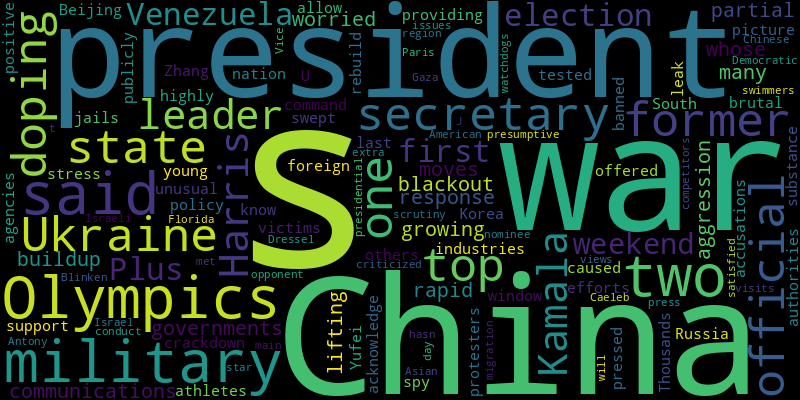
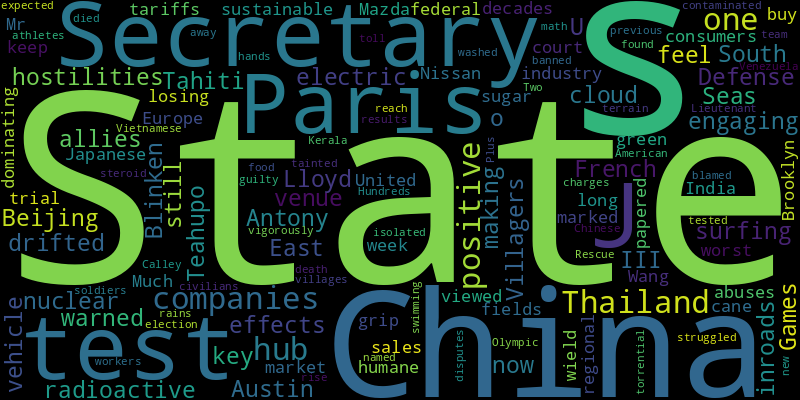
chore(bot): 😂 auto commit

diff --git a/README.md b/README.md
@@ -2,41 +2,41 @@
 Auto RSS New York Times and Generate Word Cloud
 
 ## New York Times Global News
-* Sunday’s vote could end a generation of control by Venezuela’s socialist party. It could also usher in a period of profound uncertainty.
-* Ukraine wants to deploy its first F-16 jets this summer, hoping to counter Russia’s dominance in the air. But stepped-up Russian bombing attacks on air bases complicate the effort.
-* Diplomats were scrambling to prevent a surge in fighting, officials said, after Israel retaliated for the rocket fire that killed at least 12 children and teenagers in an Israeli-controlled town.
-* The talks in Rome remain stuck over several key issues, including the extent to which Israeli troops should withdraw from Gaza, where tens of thousands were forced under Israeli orders to evacuate Sunday.
-* Grudges from the World Cup and rugby union have spilled over to the Games. But is this new sports feud even real?
-* With the closure of checkpoints, Israeli Arabs cannot come to Jenin and Tulkarm to shop, and West Bank Palestinians cannot leave to work in Israel, cutting incomes and building militancy.
-* The two governments said the moves were a response to growing aggression by China, whose rapid military buildup has many leaders worried.
-* Three years after she dropped out of the Tokyo Games with a mental block, she is back at the Olympics with a defiant attitude — and a sense of where she is in the air.
-* The partial lifting of a communications blackout is providing a picture of the young victims of a brutal crackdown on protesters. Thousands of others have been swept into jails.
-* Military analysts say Russian forces are increasingly investigating Ukrainian lines to identify weakened positions before attacking and breaking through.
+* Much of what consumers buy is marked “sustainable,” “humane” or “green.” In the sugar cane fields of India, that papered over the worst abuses.
+* In 1974, a radioactive cloud from a French nuclear test drifted over Teahupo’o, Tahiti, now the surfing venue for the Paris Games. Villagers still feel the effects.
+* A movement started by Hugo Chávez, promising power to the people, became an authoritarian regime, one that opponents say just stole an election.
+* Rescue workers struggled to reach isolated villages in the state of Kerala, where torrential rains washed away terrain. The death toll was expected to rise.
+* Water-quality tests early Tuesday showed that the river running through Paris was unsafe for swimming, organizers said.
+* The United States and Iran are at odds over the Gaza war as well as proposals for an American troop withdrawal from Iraq.
+* “It was like a fight between two packs of dogs,” said an officer, describing the struggle for one of the areas, Urozhaine. But “there came a moment when it made no sense to keep people there.”
+* A 17-year-old was arrested after an assault that left two children dead and nine children and two adults injured. The police said it did not appear terrorism-related.
+* Sunisa Lee, the all-around women’s champion at the Tokyo Olympics, overcame personal strife, family expectations and serious illness to get to Paris.
+* The African National Congress party severed ties with its former leader over his decision to become the leading voice of an opposition party in the last election, calling its platform “dangerous.”
 
 ![Global](./global.png)
 ## New York Times United States News
-* A growing cohort of young farmers is experimenting with ways to mitigate the impact of flooding and other extreme weather.
-* The fire, the largest active blaze in the United States, was 12 percent contained on Sunday afternoon. Fire activity was on the rise, according to officials.
-* With Patriot Party News, Michael Chesebro found a sense of community, and a place where conspiracy theories could become real in the form of the “medbed.”
-* Jorge Armando Contreras used his position at a school district in Orange County to fund a luxurious lifestyle, prosecutors said.
-* In his first public engagement since ending his campaign, President Biden will propose overhauling a court that has become increasingly politicized and subject to ethics complaints.
-* Democrats could formally make Kamala Harris their nominee this week, as she narrows her running mate choices and attacks her rivals, Donald Trump and JD Vance, while they hit the trail.
-* Many who fled the fire in California have been anxiously waiting to hear whether their houses are still standing. Others are grappling with news of homes and barns leveled by flames.
-* Critics say the immunity ruling is flawed for reasons similar to those the court gave for overturning Roe, which had established a right to abortion.
-* The Iowa Supreme Court ruled last month that the Republican-backed law could be enforced. Abortions had been legal in the state up until about 22 weeks.
+* “These guys are just weird,” Gov. Tim Walz, a former schoolteacher, has said of the opposition.
+* After months of roaring around the city in a souped-up Dodge Charger, drawing furious complaints and unpaid fines, Miles Hudson was led out of court on Monday in handcuffs.
+* In two years, Texas has bused more than 119,000 people to Democrat-led cities, shifting both migration patterns and the debate over immigration. The list of cities keeps expanding.
 * Native American tribes say the casinos are part of their right to self-determination. But state officials fear they could siphon revenues from the Oregon Lottery.
+* The vice president released an ad called “Fearless” that focuses on her time as a prosecutor, while a spot from the former president attacked her as soft on immigration.
+* The spot, running on television in six battleground states, reflects an effort by the former president to center immigration that predates Kamala Harris’s rise to the top of the Democratic ticket.
+* Before Kari Lake can take on Representative Ruben Gallego for a Senate seat, she must win her Republican race. And two House races set up by the primaries will be hotly contested in the fall.
+* The vice president is narrowing her choices. How do the top contenders match up on political skills that matter most?
+* Two Chinese athletes, one of whom was named to the Olympic team in Paris, tested positive in 2022 for a banned steroid. China blamed contaminated food, as it had after previous positive tests.
+* A video call with 60,000 self-professed “White Dudes for Harris” showed the breadth of Democratic support for her candidacy, and the ways the party is learning to make fun of itself.
 
 ![US](./usnews.png)
 ## New York Times Asia News
-* Plus, Venezuela’s election and the Olympics’ first weekend
-* The two governments said the moves were a response to growing aggression by China, whose rapid military buildup has many leaders worried.
-* The partial lifting of a communications blackout is providing a picture of the young victims of a brutal crackdown on protesters. Thousands of others have been swept into jails.
-* The U.S. secretary of state pressed China’s top foreign policy official on Beijing’s support for Russia’s efforts to rebuild its military industries during the Ukraine war.
-* It’s highly unusual for the nation’s authorities to publicly acknowledge a leak from the command, which is one of South Korea’s top two spy agencies.
-* Zhang Yufei, one of 23 athletes who tested positive for a banned substance before the last Olympics, said China did not allow doping, and offered a window into the stress the accusations have caused.
-* Here is what we know about the presumptive Democratic presidential nominee’s views on issues like migration and the wars in Ukraine and Gaza.
-* The former president met with the Israeli leader in Florida, a day after his main opponent, Vice President Kamala Harris, and he both criticized Israel’s conduct of the war.
-* In Paris, Chinese swimmers have been under extra scrutiny by doping watchdogs, but that hasn’t satisfied competitors like American star Caeleb Dressel.
-* Asian officials will press Secretary of State Antony J. Blinken about the former president and about Kamala Harris as he visits the region.
+* Secretary of State Antony J. Blinken and Defense Secretary Lloyd J. Austin III warned Beijing against engaging in hostilities with U.S. allies in the South and East China Seas.
+* In 1974, a radioactive cloud from a French nuclear test drifted over Teahupo’o, Tahiti, now the surfing venue for the Paris Games. Villagers still feel the effects.
+* China’s electric vehicle companies are making inroads in Thailand, a key industry hub, as Europe and the United States wield tariffs to keep them out.
+* After dominating sales in Thailand for decades, Mazda, Nissan and other Japanese companies are losing their grip on a market long viewed as a regional hub.
+* Much of what consumers buy is marked “sustainable,” “humane” or “green.” In the sugar cane fields of India, that papered over the worst abuses.
+* Mr. Wang is on trial this week in Brooklyn federal court. He vigorously disputes the charges against him.
+* Rescue workers struggled to reach isolated villages in the state of Kerala, where torrential rains washed away terrain. The death toll was expected to rise.
+* Two Chinese athletes, one of whom was named to the Olympic team in Paris, tested positive in 2022 for a banned steroid. China blamed contaminated food, as it had after previous positive tests.
+* Hundreds of Vietnamese civilians died at the hands of American soldiers, but Lieutenant Calley was the only one found guilty.
+* Plus, results in Venezuela’s tainted election and the new math of swimming.
 
 ![Asian](./asian.png)
